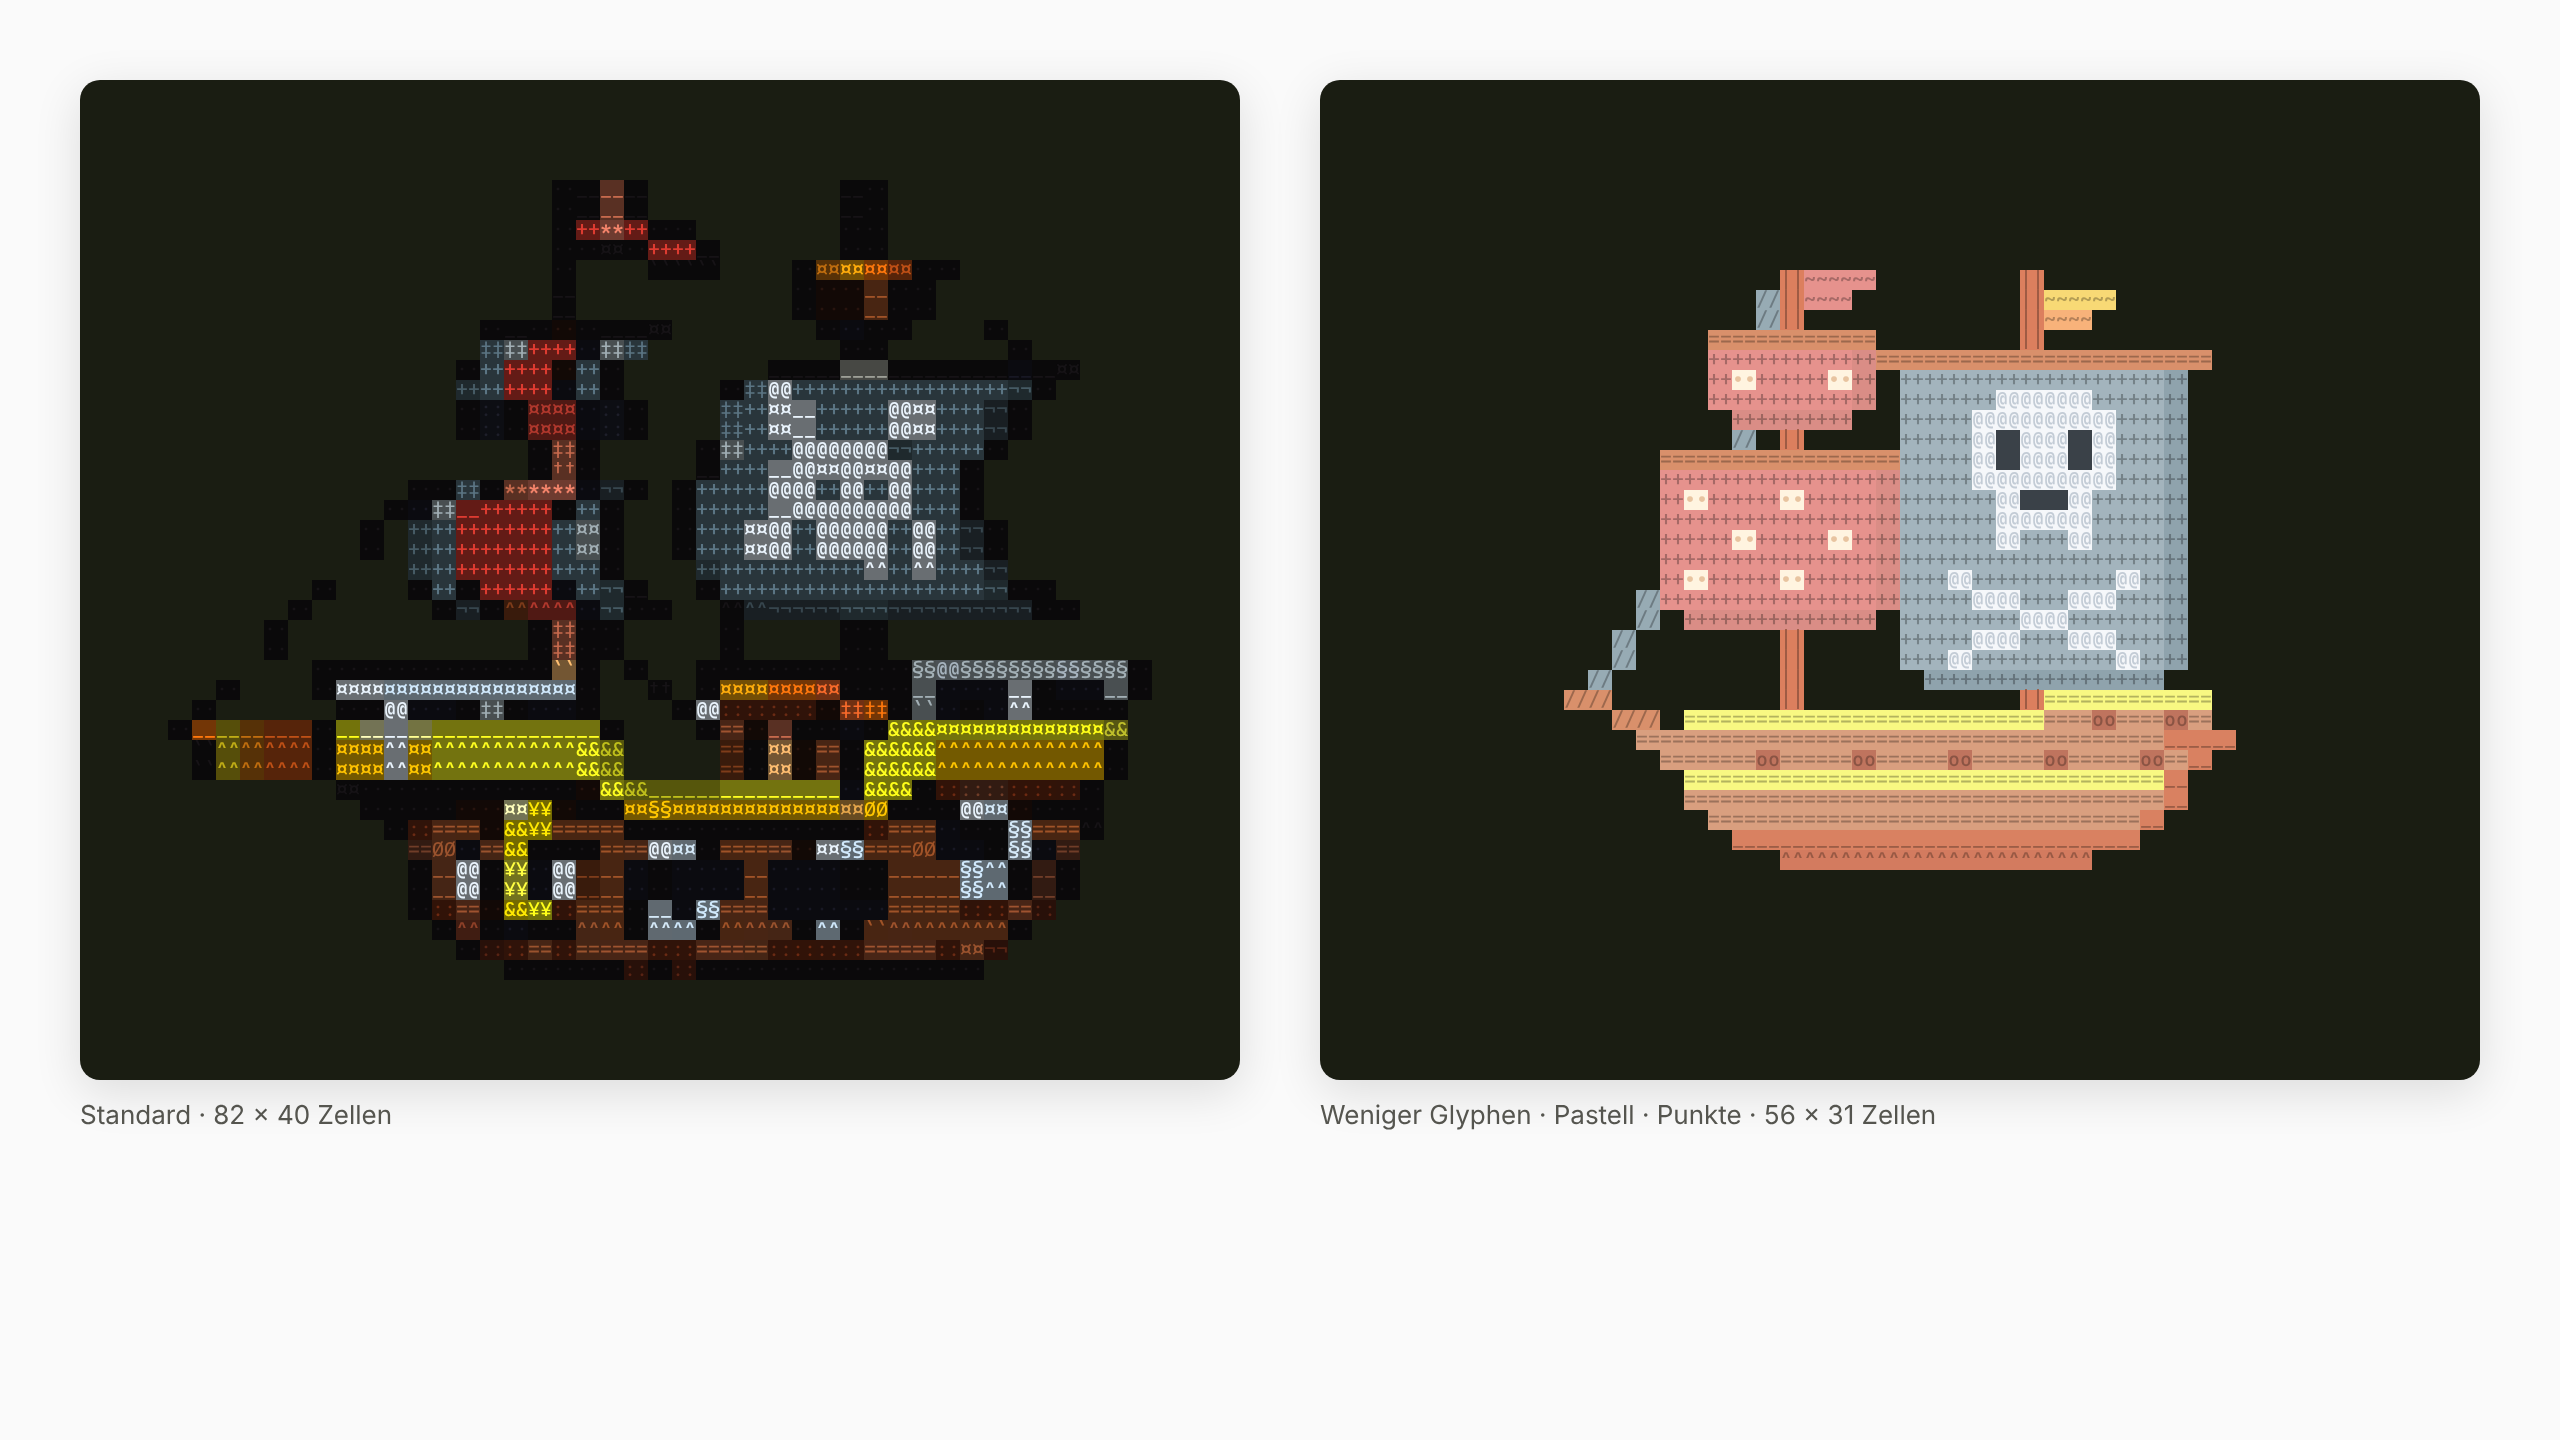
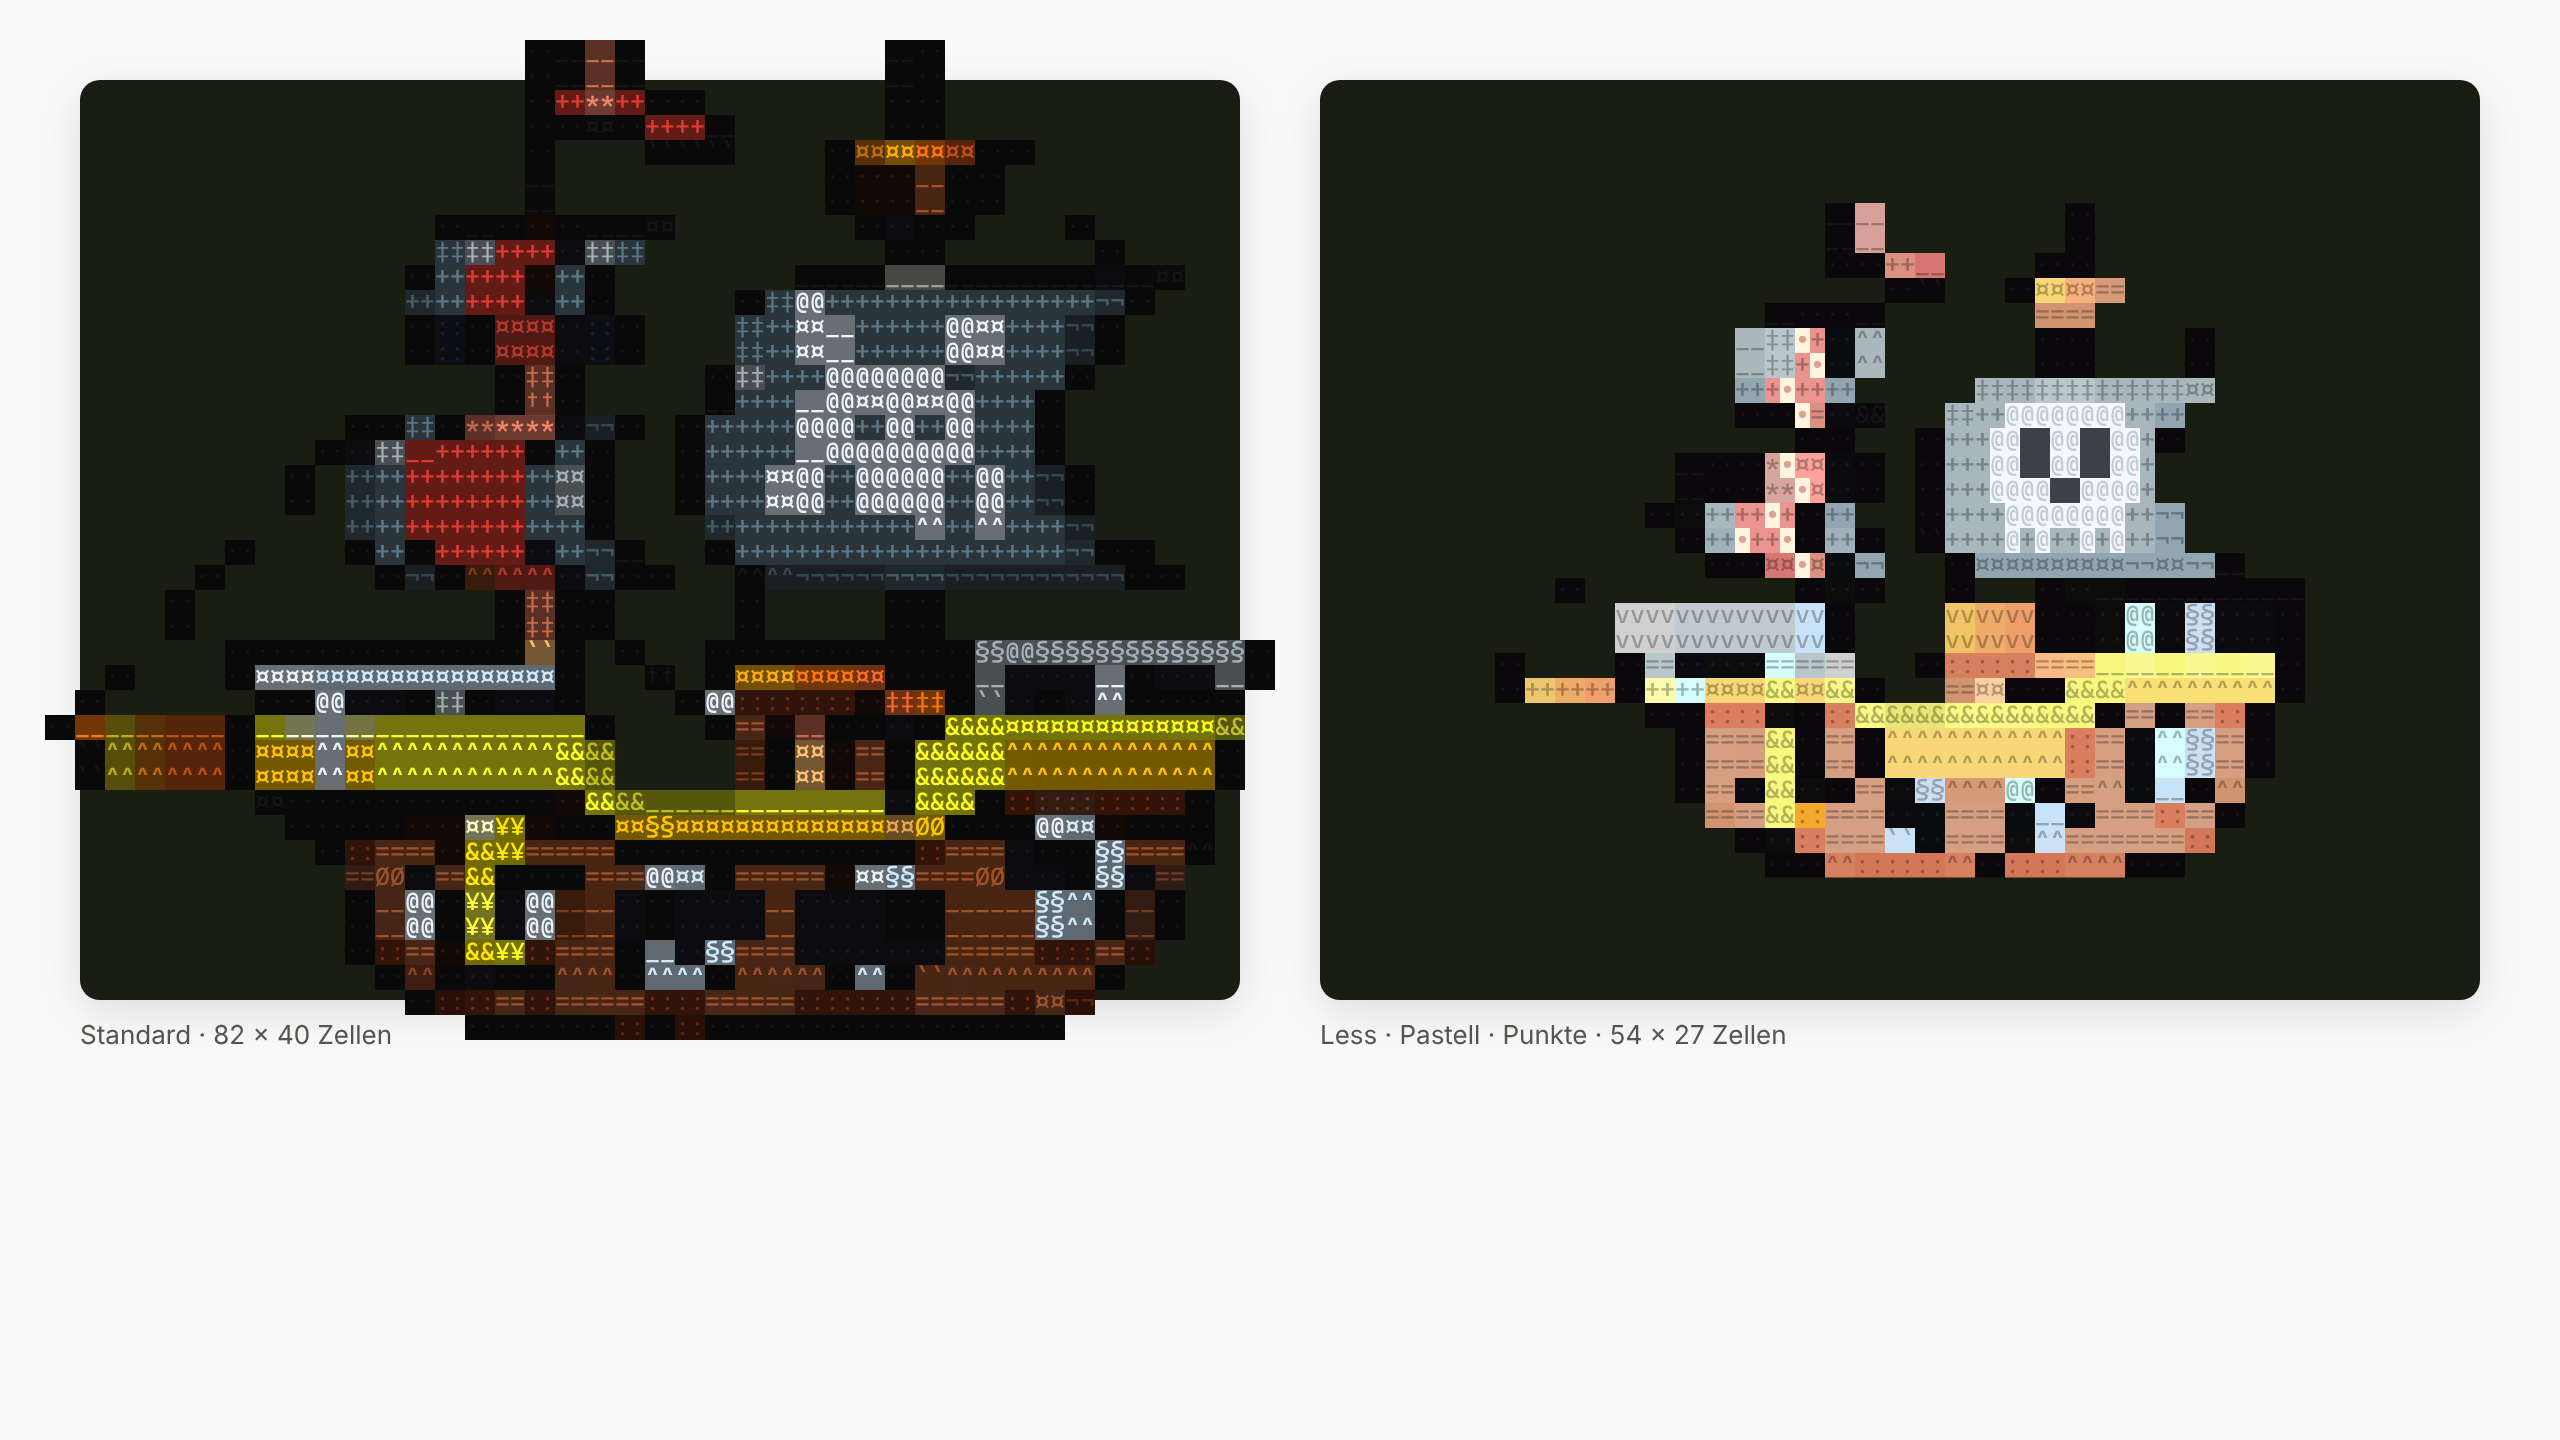
Asset Piratenschiff: Less-Version des Spiels in Pastell, Totenkopf mit zwei Augen, Punkte auf beiden vorderen Fahnen
Claude-Session: https://claude.ai/code/session_01SdonzUkZukdS6Hs9N1LRbm

diff --git a/design/crafting-specs/shared/craft/werte.md b/design/crafting-specs/shared/craft/werte.md
@@ -19,17 +19,7 @@ Dateien:
 `variante-a-sterne.svg` / `.png`: das blaue Piratenschiff aus `variante-a-clarify` (gleiches Raster, gleiche Glyphen) mit der Überraschung „stars sparkling around the ship“. Pixel-Sterne in drei Größen, orange Strahlen #F1943A, gelber Kern #FBDD3C, ohne Kontur, nur auf leeren Zellen; Segel und Totenkopf bleiben. Transparenter Hintergrund.
 
 ## Variante B · Pastell, weniger Glyphen, Punkte (`variante-b-pastell-punkte.svg`)
-- **Raster:** 56 × 31 Zellen (Standard 82 × 40), 1 Bildpixel = 2 Zellen, Zelle 6 × 10. Rund 1.050 statt 1.700 belegte Zellen.
-- **Eine Glyphe pro Material:**
-  - Segel `+`
-  - Totenkopf `@`
-  - Deck und Rumpf `=`
-  - Schattenkante `_`
-  - Kiel `^`
-  - Masten `|`
-  - Bugspriet und Tau `/`
-  - Flaggen `~`
-  - Bullaugen `o`
-- **Pastell:** die Formel des Spiels (`adjustHex(hex, -1)`: Sättigung × 0,9, Helligkeit 60 % Richtung 0,86). Fläche = Pastellfarbe, Glyphe = Pastellfarbe × 0,72.
-- **Totenkopf:** 8 px breit und symmetrisch: zwei Augen, Nase, Kiefer mit Zahnlücken, gekreuzte Knochen. Fläche #F5F7FA, Augen und Nase #3A4148.
-- **Überraschung:** Punkte auf beiden vorderen Segeln. Raster: jedes 4. Pixel, jede 2. Reihe, versetzt. Fläche #FFF4E0, `•` #E8C4A0.
+- **Grundlage:** das Ergebnis des Spiels bei Detail „Less“ („a pirate ship“). 54 × 27 Zellen statt 82 × 40, Zelle 6 × 10.
+- **Pastell:** die Formel des Spiels (`adjustHex(hex, -1)`: Sättigung × 0,9, Helligkeit 60 % Richtung 0,86). Fläche = Pastellfarbe, Glyphe = Pastellfarbe × 0,72. Die dunkle Kontur (Masten, Taue) bleibt dunkel.
+- **Totenkopf:** neu gesetzt, 12 Zellen breit und symmetrisch: zwei Augen (je 2 Zellen, 2 Reihen hoch), Nase (2 Zellen), Zahnreihe. `@` #C3CCD6 auf #F5F7FA, Augen und Nase #3A4148.
+- **Überraschung:** Punkte auf beiden vorderen roten Fahnen, jede 3. Zelle diagonal versetzt (10 Punkte). `•` #D9A48C auf #FFF4E0.
